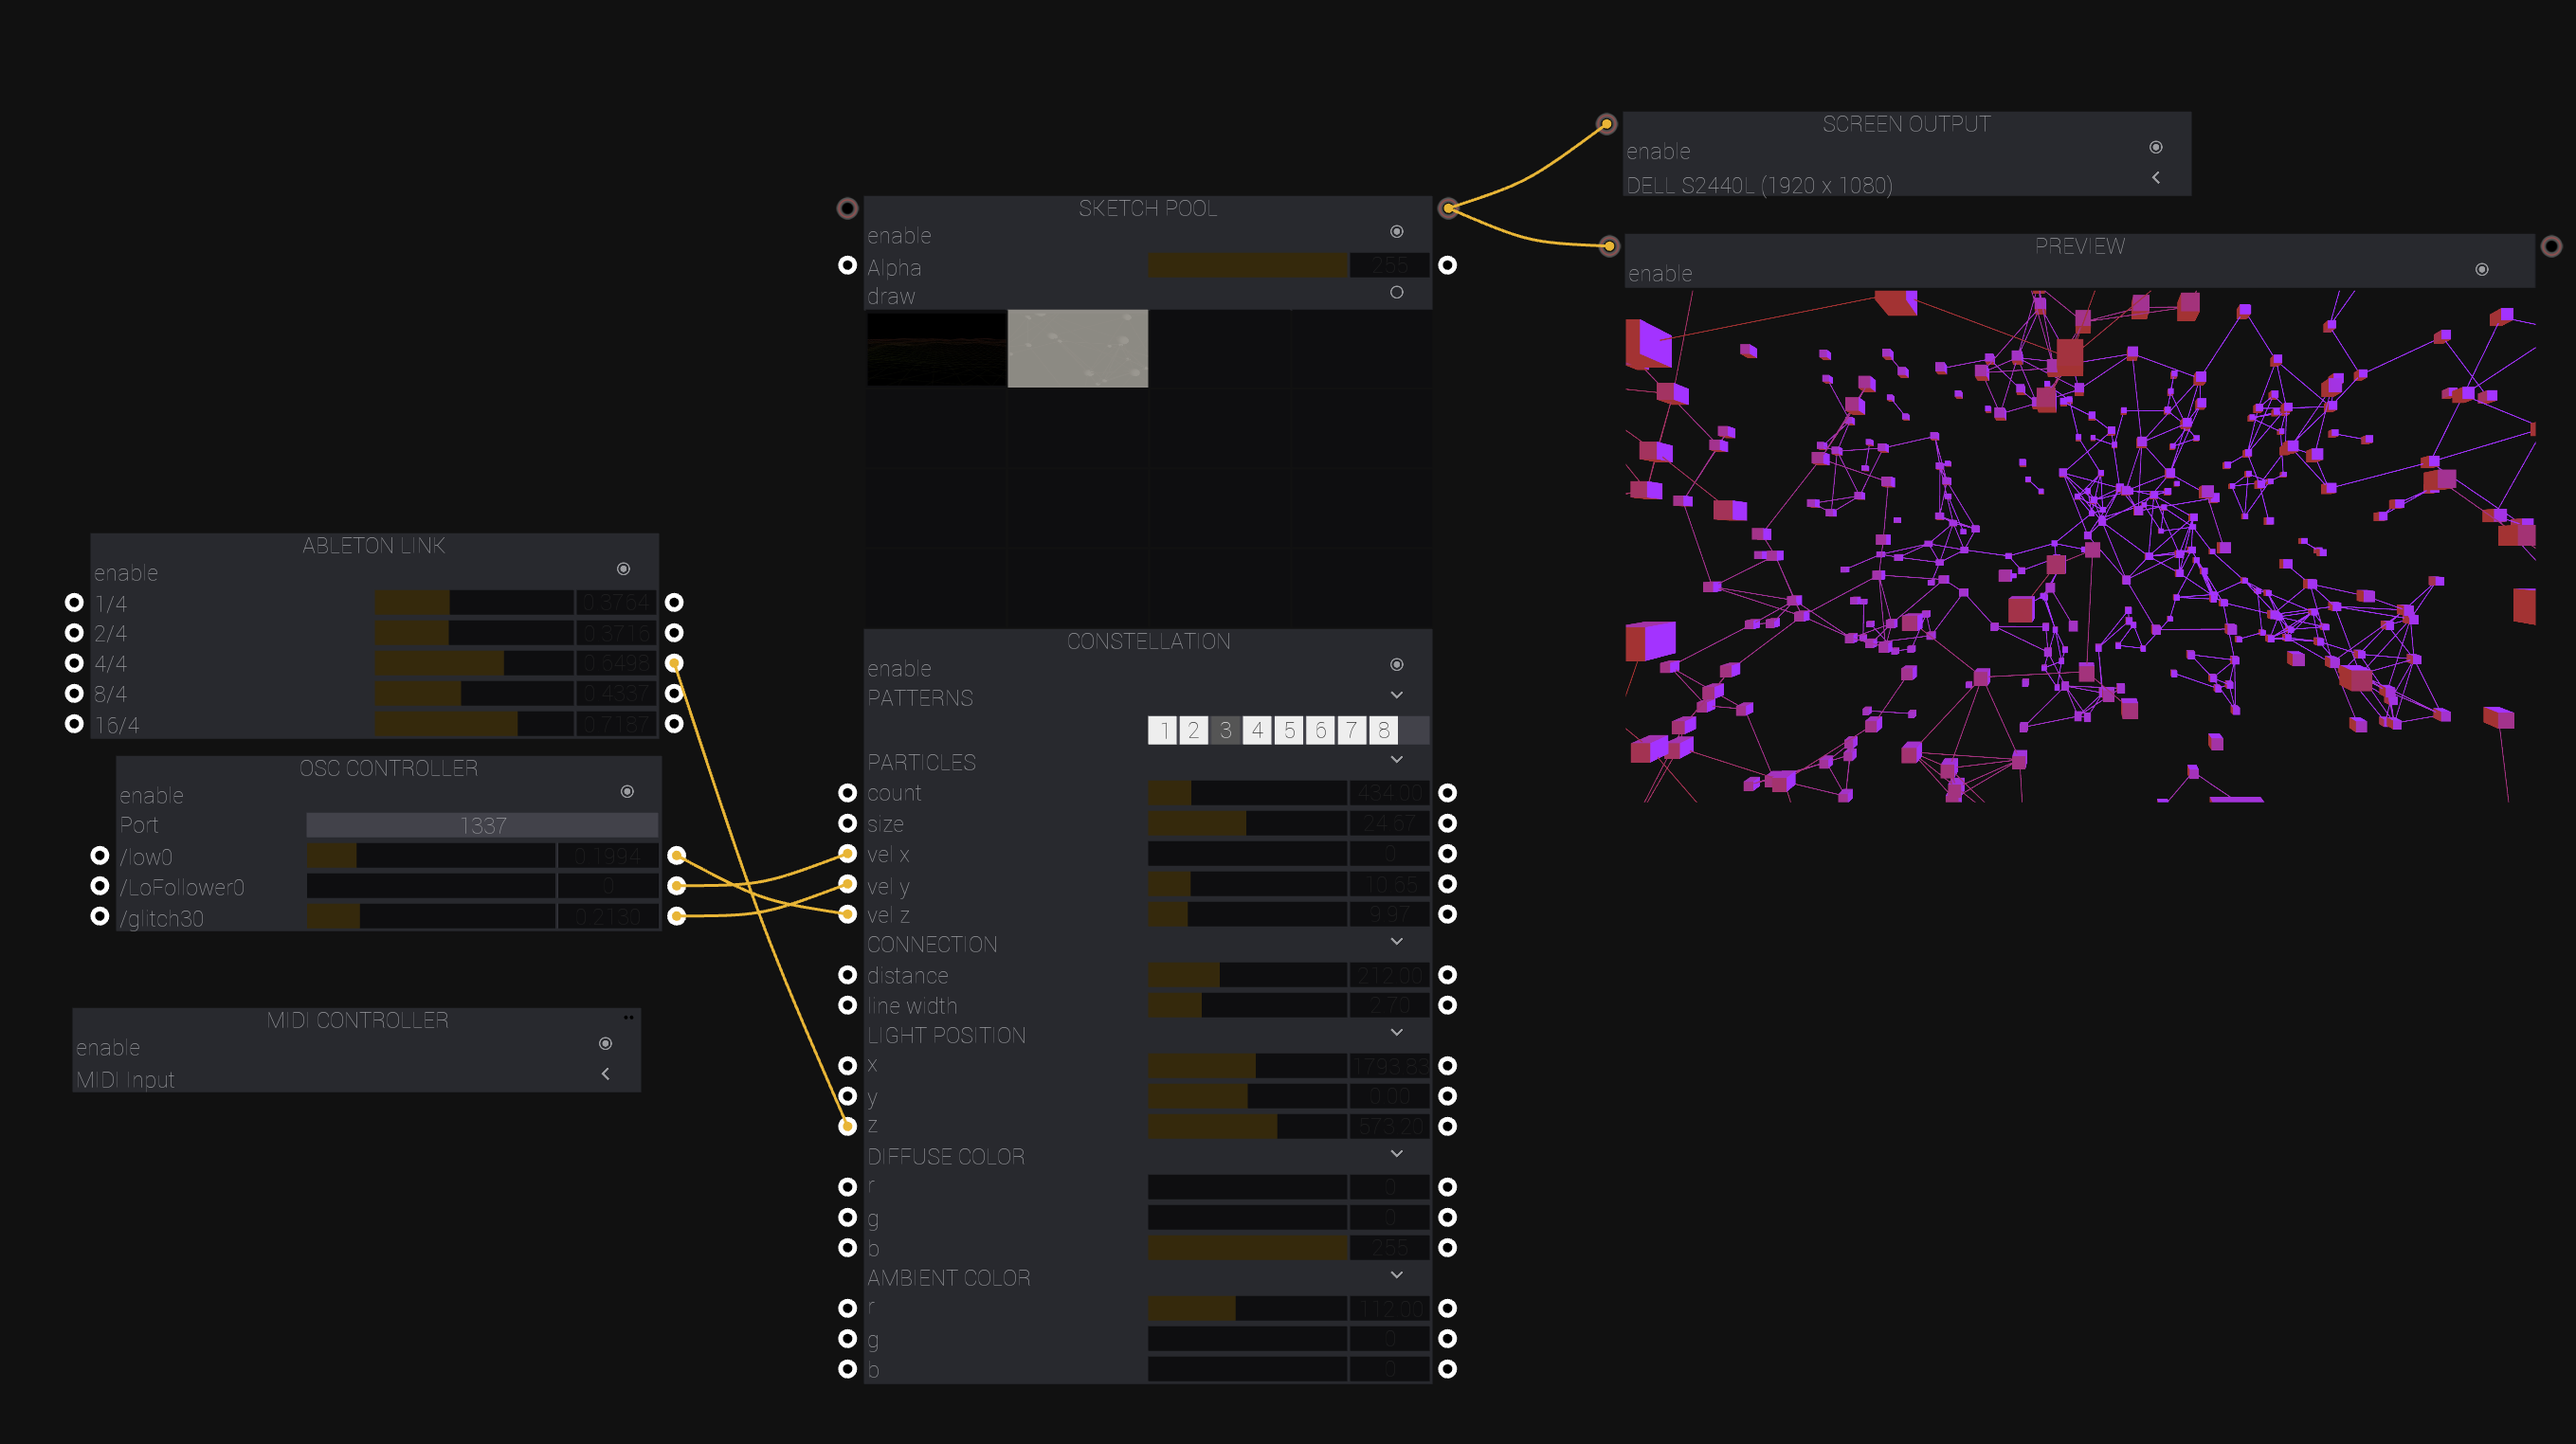
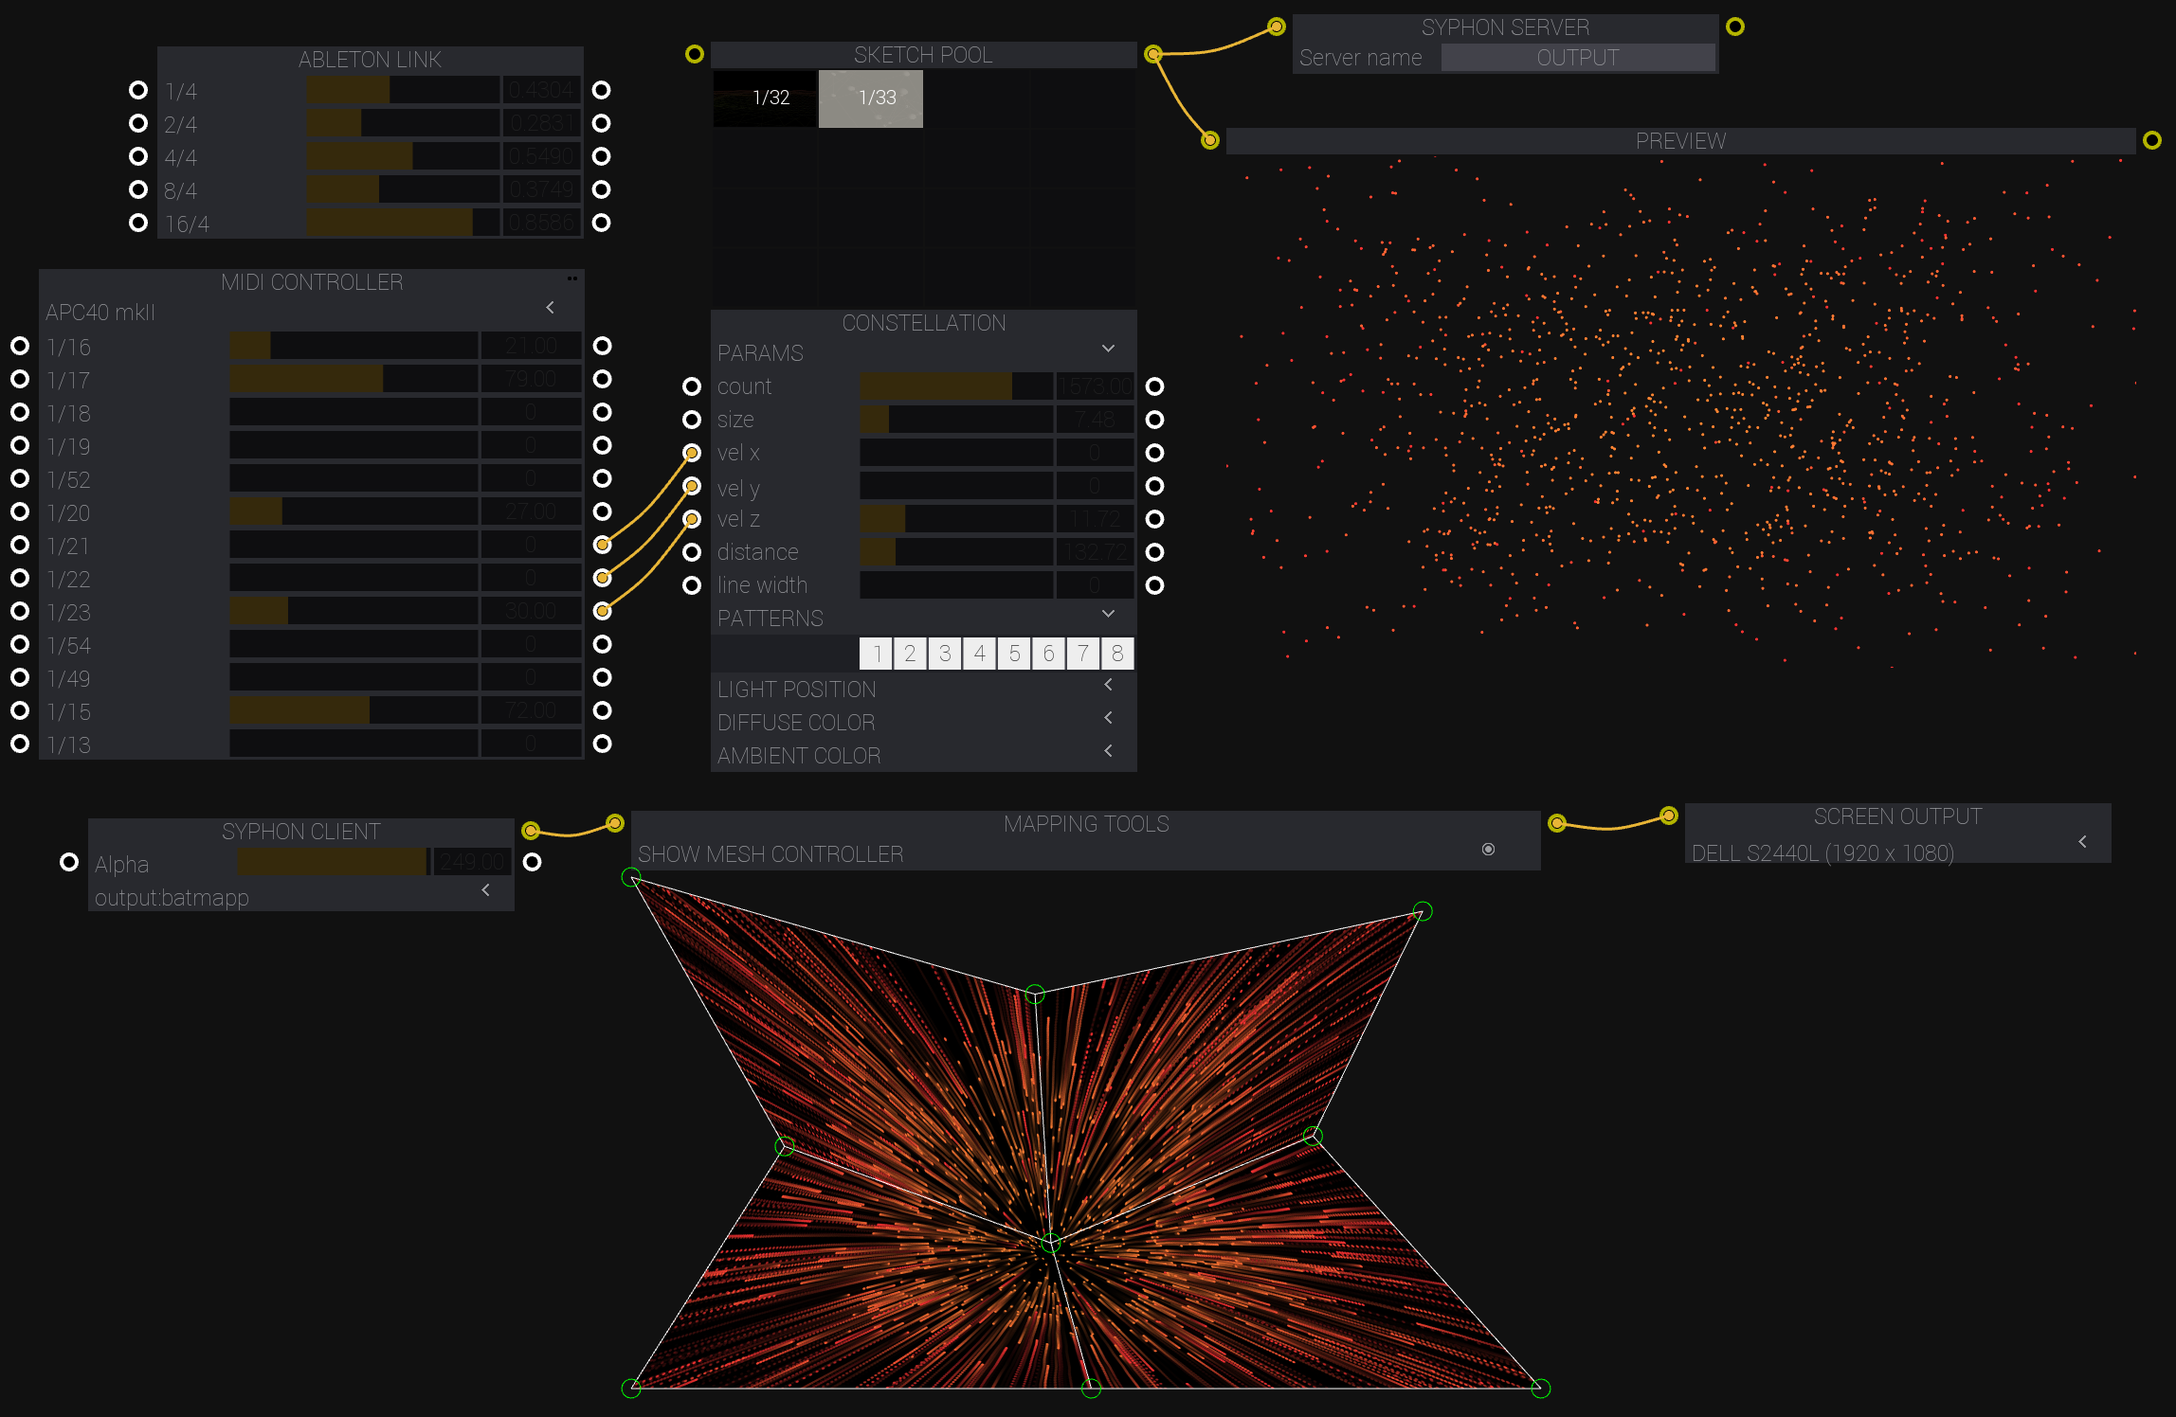
Fix: keyboard shortcuts. General theme changed, new screenshot

diff --git a/src/ofxDarkKnight.cpp b/src/ofxDarkKnight.cpp
@@ -36,7 +36,7 @@ ofxDarkKnight::~ofxDarkKnight()
 void ofxDarkKnight::setup(unordered_map<string, Module*> * pool)
 {
     theme = new ofxDatGuiThemeCharcoal();
-    shiftKey = altKey = cmdKey = midiMapMode = drawing = showExplorer = false;
+    loadWires = shiftKey = altKey = cmdKey = midiMapMode = drawing = showExplorer = false;
     translation = { 0, 0 };
     resolution = { 1920, 1080 };
     
@@ -400,7 +400,7 @@ Module * ofxDarkKnight::addModule(string moduleName)
         if(newModule == nullptr) newModule = it->second;
         
         newModule->setupModule(it->first, theme, resolution);
-        newModule->gui->setPosition(ofGetMouseX() + 15, ofGetMouseY() + 15);
+        newModule->gui->setPosition(ofGetMouseX() - 100, ofGetMouseY() - 15);
         
         if(moduleName == "SCREEN OUTPUT")
         {
@@ -541,7 +541,7 @@ void ofxDarkKnight::handleKeyPressed(ofKeyEventArgs &keyboard)
     }
     
     // cmd+shift+m || cmd+shift+<  -> Toggle midiMap on all layers
-    if(shiftKey && (keyboard.key == 109 || keyboard.key == 77)){
+    if(shiftKey && (keyboard.key == 'm' || keyboard.key == '<')){
         toggleMappingMode();
     }
 
@@ -551,7 +551,7 @@ void ofxDarkKnight::handleKeyPressed(ofKeyEventArgs &keyboard)
     }
     
     //cmd + 's' to save the project
-    if( cmdKey && keyboard.key == 19)
+    if( cmdKey && keyboard.key == 's')
     {
         ofFileDialogResult saveFileResult =
             ofSystemSaveDialog("project.batmapp", "Save project");
@@ -562,17 +562,17 @@ void ofxDarkKnight::handleKeyPressed(ofKeyEventArgs &keyboard)
     }
     
     //cmd + o
-   if(cmdKey && keyboard.key == 15)
-   {
-       ofFileDialogResult loadFileResult = ofSystemLoadDialog("Open batmapp project");
-       if(loadFileResult.bSuccess)
-       {
-           loadProject(loadFileResult.getPath(), loadFileResult.getName());
-       }
-   }
+    if(cmdKey && keyboard.key == 'o')
+    {
+            ofFileDialogResult loadFileResult = ofSystemLoadDialog("Open batmapp project");
+            if(loadFileResult.bSuccess)
+            {
+               loadProject(loadFileResult.getPath(), loadFileResult.getName());
+            }
+    }
     
     //cmd + shift + 's' to save preset
-    if( shiftKey && cmdKey && keyboard.key == 19)
+    if( shiftKey && cmdKey && keyboard.key == 's')
     {
         savePreset();
     }
